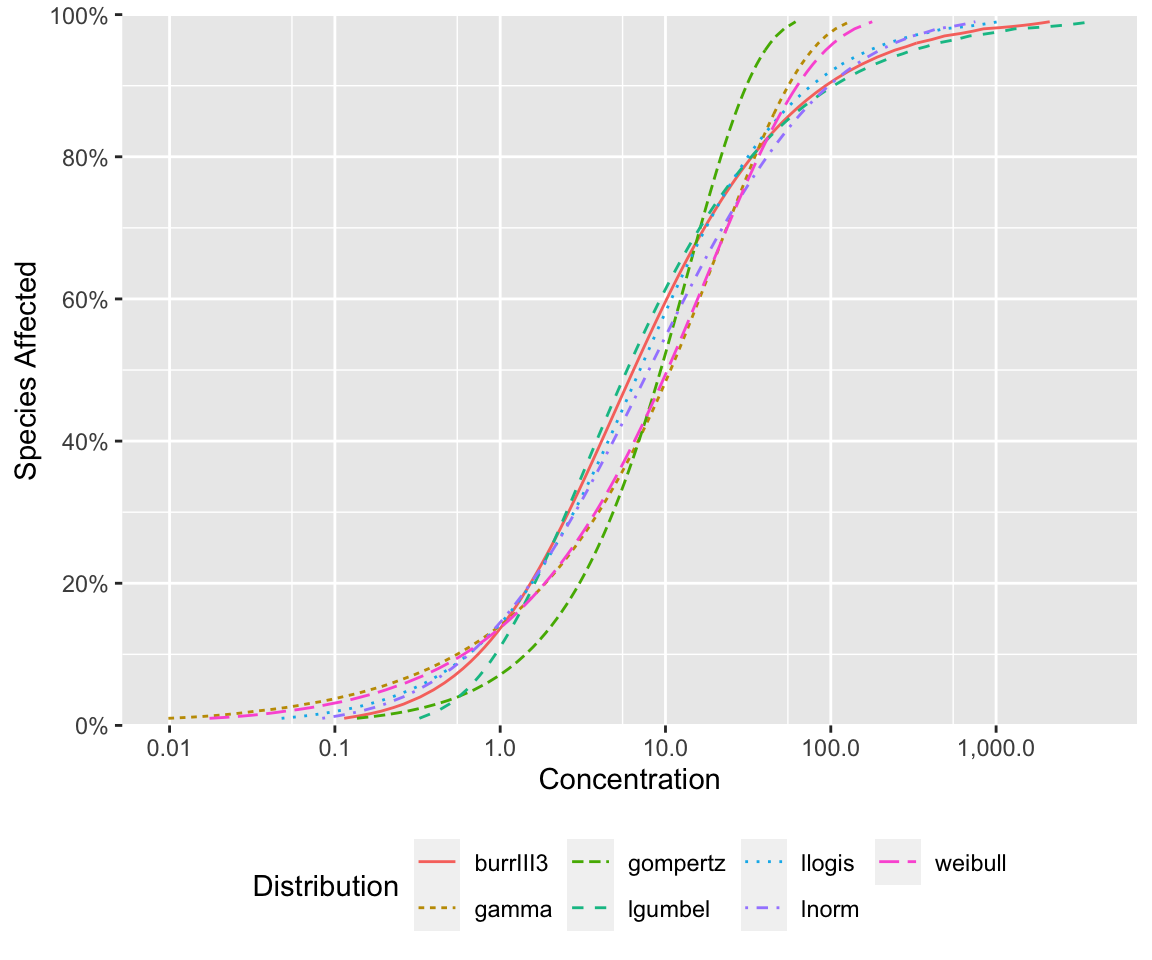
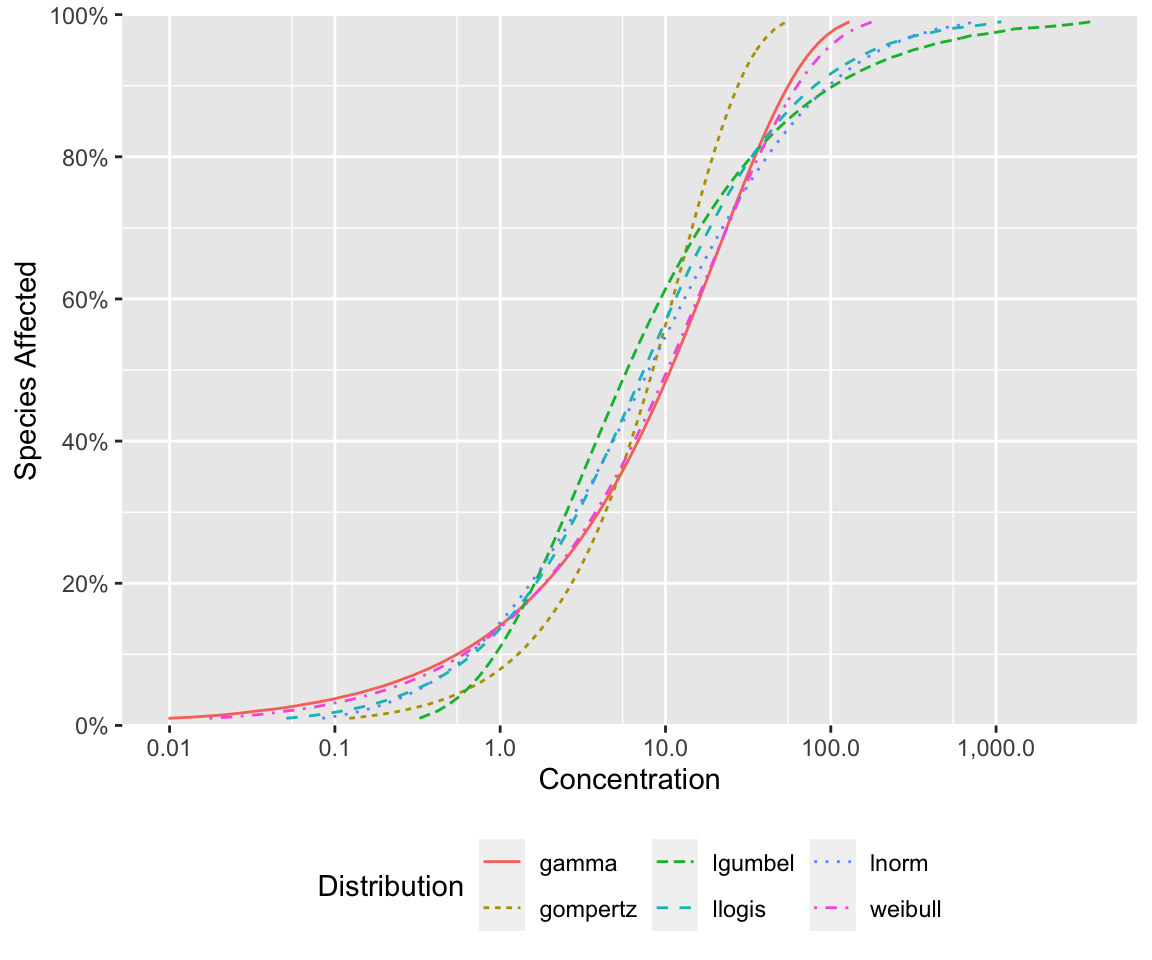
Built site for ssdtools: 0.2.0.9005@fd700f7

diff --git a/reference/burrIII3.html b/reference/burrIII3.html
@@ -240,8 +240,10 @@ The shape1, shape2, and scale paramters are on the log(scale) as these must be p
     <div class='dont-index'><p><code><a href='https://rdrr.io/pkg/actuar/man/Burr.html'>dburr</a></code></p></div>
 
     <h2 class="hasAnchor" id="examples"><a class="anchor" href="#examples"></a>Examples</h2>
-    <pre class="examples"><div class='input'><span class='kw'>x</span> <span class='op'>&lt;-</span> <span class='fu'><a href='https://rdrr.io/pkg/ssdtools/man/burrIII3.html'>rburrIII3</a></span>(<span class='fl'>1000</span>)
-<span class='fu'><a href='https://rdrr.io/r/graphics/hist.html'>hist</a></span>(<span class='kw'>x</span>, freq = <span class='fl'>FALSE</span>, col = <span class='st'>"gray"</span>, border = <span class='st'>"white"</span>)</div><div class='input'><span class='fu'><a href='https://rdrr.io/r/graphics/curve.html'>curve</a></span>(<span class='fu'><a href='https://rdrr.io/pkg/ssdtools/man/burrIII3.html'>dburrIII3</a></span>(<span class='kw'>x</span>), add = <span class='fl'>TRUE</span>, col = <span class='st'>"red4"</span>, lwd = <span class='fl'>2</span>)</div><div class='img'><img src='burrIII3-1.png' alt='' width='700' height='433' /></div></pre>
+    <pre class="examples"><div class='input'><span class='kw'>x</span> <span class='op'>&lt;-</span> <span class='fu'><a href='https://rdrr.io/pkg/ssdtools/man/burrIII3.html'>rburrIII3</a></span>(<span class='fl'>1000</span>)</div><div class='output co'>#&gt; <span class='warning'>Warning: `rburrIII3()` is deprecated as of lifecycle 0.2.1.</span>
+#&gt; <span class='warning'>The 'burrIII3' distribution is under review.</span>
+#&gt; <span class='warning'><span style='color: #555555;'>This warning is displayed once every 8 hours.</span><span></span>
+#&gt; <span class='warning'></span><span style='color: #555555;'>Call `lifecycle::last_warnings()` to see where this warning was generated.</span><span></span></div><div class='input'><span class='fu'><a href='https://rdrr.io/r/graphics/hist.html'>hist</a></span>(<span class='kw'>x</span>, freq = <span class='fl'>FALSE</span>, col = <span class='st'>"gray"</span>, border = <span class='st'>"white"</span>)</div><div class='input'><span class='fu'><a href='https://rdrr.io/r/graphics/curve.html'>curve</a></span>(<span class='fu'><a href='https://rdrr.io/pkg/ssdtools/man/burrIII3.html'>dburrIII3</a></span>(<span class='kw'>x</span>), add = <span class='fl'>TRUE</span>, col = <span class='st'>"red4"</span>, lwd = <span class='fl'>2</span>)</div><div class='img'><img src='burrIII3-1.png' alt='' width='700' height='433' /></div></span></pre>
   </div>
   <div class="col-md-3 hidden-xs hidden-sm" id="pkgdown-sidebar">
     <nav id="toc" data-toggle="toc" class="sticky-top">

diff --git a/reference/ssdtools-package.html b/reference/ssdtools-package.html
@@ -53,7 +53,7 @@ Species sensitivity distributions are
   toxicity concentrations for different species as described by
   Posthuma et al.(2001) &amp;lt;isbn:9781566705783&amp;gt;.
   The ssdtools package uses Maximum Likelihood to fit distributions 
-  such as the log-normal, gamma, burr Type-III, log-logistic, 
+  such as the log-normal, gamma, log-logistic, 
   log-Gumbel, Gompertz and Weibull.
   The user can provide custom distributions.
   Multiple distributions can be averaged using Information Criteria.
@@ -166,7 +166,7 @@ Species sensitivity distributions are
   toxicity concentrations for different species as described by
   Posthuma et al.(2001) &lt;isbn:9781566705783&gt;.
   The ssdtools package uses Maximum Likelihood to fit distributions 
-  such as the log-normal, gamma, burr Type-III, log-logistic, 
+  such as the log-normal, gamma, log-logistic, 
   log-Gumbel, Gompertz and Weibull.
   The user can provide custom distributions.
   Multiple distributions can be averaged using Information Criteria.

diff --git a/articles/distributions.html b/articles/distributions.html
@@ -157,7 +157,7 @@ However, if two or more similar models fit the data well then the support for th
 <div class="sourceCode" id="cb2"><pre class="downlit">
 <span class="fu"><a href="https://rdrr.io/r/base/Random.html">set.seed</a></span>(<span class="fl">7</span>)
 <span class="fu"><a href="../reference/ssd_plot_cdf.html">ssd_plot_cdf</a></span>(<span class="fu"><a href="../reference/ssd_match_moments.html">ssd_match_moments</a></span>(dists = <span class="fu"><a href="https://rdrr.io/r/base/c.html">c</a></span>(
-  <span class="st">"burrIII3"</span>, <span class="st">"gamma"</span>,
+  <span class="st">"gamma"</span>,
   <span class="st">"gompertz"</span>, <span class="st">"lgumbel"</span>, <span class="st">"llogis"</span>,
   <span class="st">"lnorm"</span>, <span class="st">"weibull"</span>
 ), meanlog = <span class="fl">2</span>, sdlog = <span class="fl">2</span>)) <span class="op">+</span>

diff --git a/reference/ssd_fit_dists.html b/reference/ssd_fit_dists.html
@@ -203,7 +203,7 @@
     <p>By default the 'llogis', 'gamma' and 'lnorm'
 distributions are fitted to the data.
 The ssd_fit_dists function has also been
-tested with the 'burrIII3', 'gompertz', 'lgumbel' and 'weibull' distributions.</p>
+tested with the 'gompertz', 'lgumbel' and 'weibull' distributions.</p>
 <p>If weight specifies a column in the data frame with positive integers,
 weighted estimation occurs.
 However, currently only the resultant parameter estimates are available (via coef).</p>

diff --git a/index.html b/index.html
@@ -23,7 +23,7 @@
   toxicity concentrations for different species as described by
   Posthuma et al.(2001) &lt;isbn:9781566705783&gt;.
   The ssdtools package uses Maximum Likelihood to fit distributions 
-  such as the log-normal, gamma, burr Type-III, log-logistic, 
+  such as the log-normal, gamma, log-logistic, 
   log-Gumbel, Gompertz and Weibull.
   The user can provide custom distributions.
   Multiple distributions can be averaged using Information Criteria.

diff --git a/articles/ssdtools.html b/articles/ssdtools.html
@@ -180,7 +180,6 @@
 <a href="#fitting-distributions" class="anchor"></a>Fitting Distributions</h2>
 <p>The function <code><a href="../reference/ssd_fit_dists.html">ssd_fit_dists()</a></code> inputs a data frame and fits one or more distributions. The user can specify a subset of the</p>
 <ul>
-<li>Burr type-III 3-parameter (<code>burrIII3</code>),</li>
 <li>
 <a href="https://en.wikipedia.org/wiki/Gamma_distribution">gamma</a> (<code>gamma</code>),</li>
 <li>
